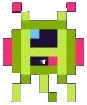
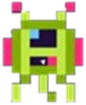
Rajout de monstres sur le niveau 2 et 3 + ajustement de la taille des monstres

diff --git a/src/js/niveau2.js b/src/js/niveau2.js
@@ -87,7 +87,7 @@ export default class niveau2 extends Phaser.Scene {
   // on fait une boucle foreach, qui parcours chaque élements du tableau tab_points  
   tab_points.objects.forEach(point => {
     if (point.name == "ennemi") {
-      var nouvel_ennemi = this.physics.add.sprite(point.x, point.y, "monstre_2");    
+      var nouvel_ennemi = this.physics.add.sprite(point.x, point.y, "monstre_1");    
       groupe_ennemis.add(nouvel_ennemi);
     }
   }); 

diff --git a/src/js/niveau3.js b/src/js/niveau3.js
@@ -92,7 +92,7 @@ export default class niveau3 extends Phaser.Scene {
   // on fait une boucle foreach, qui parcours chaque élements du tableau tab_points  
   tab_points.objects.forEach(point => {
     if (point.name == "ennemi") {
-      var nouvel_ennemi = this.physics.add.sprite(point.x, point.y, "monstre_2");    
+      var nouvel_ennemi = this.physics.add.sprite(point.x, point.y, "monstre_3");    
       groupe_ennemis.add(nouvel_ennemi);
     }
   }); 
